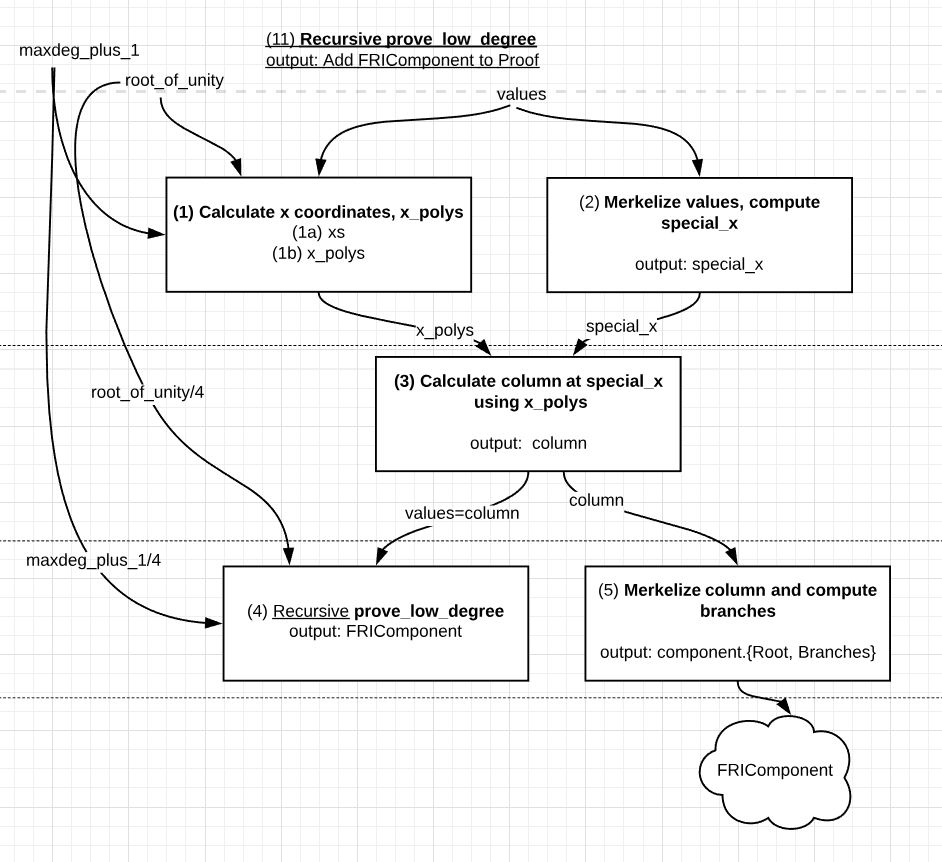
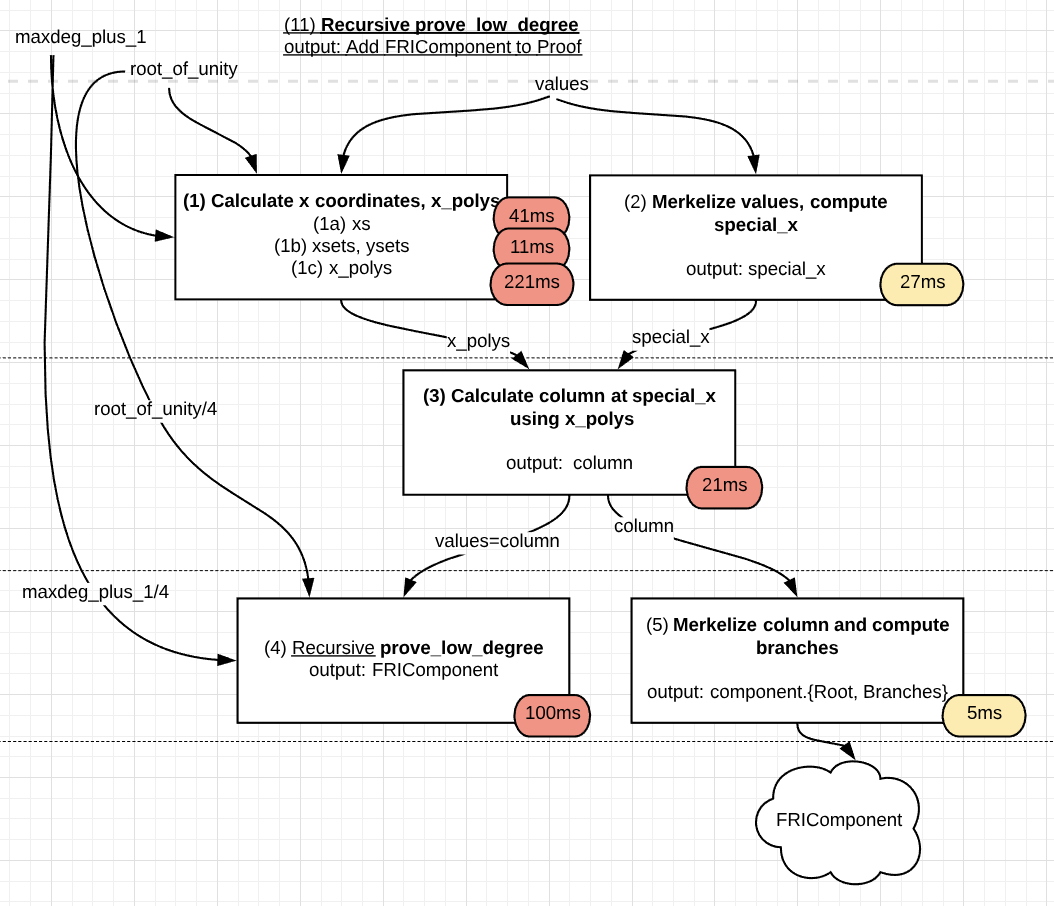
updated flow diagram with pipeline timings

Changed region(s): [[0.0, 0.0, 1.0, 0.9954], [0.6773, 0.935, 0.7081, 0.9652], [0.2771, 0.935, 0.3079, 0.9652]]

diff --git a/stark/proof.go b/stark/proof.go
@@ -323,6 +323,9 @@ func NewProof(f *PrimeField, inp *big.Int, steps *big.Int, round_constants []*bi
 	ch_c_of_p_evaluations := make(chan IndexedInt, nprecision)
 	ch_z_num_evaluations := make(chan IndexedInt, nprecision)
 	ch_z_den_evaluations := make(chan IndexedInt, nprecision)
+	d_evaluations := make([]*big.Int, nprecision)
+	ch_d_evaluations := make(chan IndexedInt, nprecision)
+	var z_num_inv []*big.Int
 	wg.Add(1)
 	go func() {
 		start := time.Now()
@@ -342,41 +345,40 @@ func NewProof(f *PrimeField, inp *big.Int, steps *big.Int, round_constants []*bi
 			z_den_evaluations[d.idx] = d.data
 		}
 		fmt.Printf("(5) Computed C(P, K) polynomial [%s => %s]\n", time.Since(start), time.Since(start0))
+
+		// (6) Compute D(x) = C(P(x), P(g1*x), K(x)) / Z(x) ;;;; Z(x) = (x^steps - 1) / (x - x_atlast_step)
+		// inputs: z_num_evaluations from (5)
+		// outputs: z_num_inv
+		start = time.Now()
+		z_num_inv = f.multi_inv(z_num_evaluations)
+		fmt.Printf("(6a) Computed z_num_inv [%s => %s]\n", time.Since(start), time.Since(start0))
+
+		// (6b) Compute d_evaluations
+		// inputs: c_of_p_evaluations, z_den_evaluations, z_num_inv; output: d_evaluations
+		start = time.Now()
+		for i := int(0); i < nprecision; i += dprecision {
+			i1 := i + dprecision
+			if i1 > nprecision {
+				i1 = nprecision
+			}
+			go compute_d_evaluations(ch_d_evaluations, c_of_p_evaluations[i:i1], z_den_evaluations[i:i1], z_num_inv[i:i1], i)
+		}
+		for i := 0; i < nprecision; i++ {
+			d := <-ch_d_evaluations
+			d_evaluations[d.idx] = d.data
+		}
+		fmt.Printf("(6b) Computed d_evaluations [%s => %s]\n", time.Since(start), time.Since(start0))
+
 		wg.Done()
 	}()
 
-	// waiting for (4)+(5)
+	// waiting for (4)+(5)/(6a)/(6b)
 	wg.Wait()
-
-	// (6) Compute D(x) = C(P(x), P(g1*x), K(x)) / Z(x) ;;;; Z(x) = (x^steps - 1) / (x - x_atlast_step)
-	// inputs: z_num_evaluations from (5)
-	// outputs: z_num_inv
-	start := time.Now()
-	z_num_inv := f.multi_inv(z_num_evaluations)
-	fmt.Printf("(6a) Computed z_num_inv [%s => %s]\n", time.Since(start), time.Since(start0))
-
-	// (6b) Compute d_evaluations
-	// inputs: c_of_p_evaluations, z_den_evaluations, z_num_inv; output: d_evaluations
-	d_evaluations := make([]*big.Int, nprecision)
-	ch_d_evaluations := make(chan IndexedInt, nprecision)
-	start = time.Now()
-	for i := int(0); i < nprecision; i += dprecision {
-		i1 := i + dprecision
-		if i1 > nprecision {
-			i1 = nprecision
-		}
-		go compute_d_evaluations(ch_d_evaluations, c_of_p_evaluations[i:i1], z_den_evaluations[i:i1], z_num_inv[i:i1], i)
-	}
-	for i := 0; i < nprecision; i++ {
-		d := <-ch_d_evaluations
-		d_evaluations[d.idx] = d.data
-	}
-	fmt.Printf("(6b) Computed d_evaluations [%s => %s]\n", time.Since(start), time.Since(start0))
 
 	// (7) Compute b_evaluations and Merkle Root
 	// input: inv_z2_evaluations from (4b); p_evaluations from (2), d_evaluations from (6b)
 	// output: merkle_inp, b_evaluations
-	start = time.Now()
+	start := time.Now()
 	nev := len(inv_z2_evaluations)
 	merkle_inp := make([][]byte, len(p_evaluations))
 	njmp = min_iterations(nev, 2)

diff --git a/stark/verify.go b/stark/verify.go
@@ -129,23 +129,21 @@ func VerifyProof(f *PrimeField, inp *big.Int, steps *big.Int, round_constants []
 	//  input: proof
 	//  output: errV
 	var errV error
-	wg.Add(1)
+	var wg2 sync.WaitGroup
+	wg2.Add(1)
 	go func() {
 		start := time.Now()
 		errV = verify_low_degree_proof(f, proof.LRoot, G2, proof.Child, int(steps.Int64()*2), ext_factor)
-		wg.Done()
+		wg2.Done()
 		fmt.Printf("(v3) verify_low_degree_proof [%s => %s]\n", time.Since(start), time.Since(start0))
 	}()
-	wg.Wait()
 
-	// check (v3) errV
-	if errV != nil {
-		return errV
-	}
+	wg.Wait()
 
 	// (v4) Verified consistency checks
 	//  input: proof, last_step_position, output from (v1), positions, k1-k4, constants_mini_polynomial from (v2),
 	//  output: chErr
+	start := time.Now()
 	nev := len(positions)
 	njmp := 5
 	buf := nev / njmp
@@ -160,6 +158,12 @@ func VerifyProof(f *PrimeField, inp *big.Int, steps *big.Int, round_constants []
 		go verify_consistency_checks(chErr, proof, G2, steps, precision, last_step_position, skips, skips2, zeropoly2, interpolant, constants_mini_polynomial, k1, k2, k3, k4, positions[i:i1], proof.Branches, i)
 	}
 
+	wg2.Wait()
+	// check (v3) errV
+	if errV != nil {
+		return errV
+	}
+
 	// check (v4) chErr
 	for i := 0; i < buf; i++ {
 		err := <-chErr
@@ -168,7 +172,7 @@ func VerifyProof(f *PrimeField, inp *big.Int, steps *big.Int, round_constants []
 		}
 	}
 
-	fmt.Printf("(v4) Verified %d consistency checks [%s]\n", spot_check_security_factor, time.Since(start0))
+	fmt.Printf("(v4) Verified %d consistency checks [%s => %s]\n", spot_check_security_factor, time.Since(start), time.Since(start0))
 	return nil
 }
 

diff --git a/stark/utils.go b/stark/utils.go
@@ -93,13 +93,13 @@ func min_iterations(total_iterations int, min_size_level int) int {
 	case -1:
 		m = 8
 	case 0:
-		m = 512
+		m = 32
 	case 1:
-		m = 512
+		m = 64
 	case 2:
-		m = 512
+		m = 128
 	case 3:
-		m = 512
+		m = 256
 	case 4:
 		m = 512
 	case 5:

diff --git a/stark/README.md b/stark/README.md
@@ -22,89 +22,92 @@ The following builds a STARK proof and verifies it:
 
 ```
 $ go test -run Stark
-(0) Setup: 182.571µs
-(3) Converted round constants into a polynomial and low-degree extended it [4.4276ms => 4.666351ms]
-(2a) Computational trace output (8192 steps) [10.389452ms => 10.700385ms]
-(2b) Converted computational steps into a polynomial [46.674131ms => 57.400872ms]
-(1) Powers of the higher-order root of unity [95.682927ms => 95.948311ms]
-(2c) Extended it into p_evaluations [270.383988ms => 327.829209ms]
-(5) Computed C(P, K) polynomial [101.310373ms => 430.617625ms]
-(4a) Computed i_evaluations [130.134393ms]
-(4b) Computed inv_z2_evaluations [116.376872ms => 574.446241ms]
-(6a) Computed z_num_inv [95.80993ms => 670.283144ms]
-(6b) Computed d_evaluations [24.213509ms => 694.804971ms]
-(7) Computed b_evaluations, MerkleTree input [46.881766ms => 741.716265ms]
-(8) Compute mtree[1] d494ec987dc1dfb66522849ed16f0a3b0bf57bc943e855ee6222ccc51436bb60 [28.393291ms => 770.132013ms]
-(9) Computed random linear combination [45.518049ms => 815.66801ms]
-(10) Merkelized l_evaluations, Setup Spot check positions [72.14833ms => 842.298166ms]
-  (16384-2) Merkelize values [26.727857ms]
-  (16384-1a) Calculate the set of x coordinates [39.512573ms]
-  (16384-1b) Setup xsets, ysets [11.181406ms]
-  (16384-1c) Computed x_polys [265.800292ms]
-  (16384-3) Computed column [11.267897ms]
-  (4096-2) Merkelize values [5.331177ms]
-  (16384-5) Computed branches [5.767438ms]
-  (4096-1a) Calculate the set of x coordinates [8.182335ms]
-  (4096-1b) Setup xsets, ysets [3.21678ms]
-  (4096-1c) Computed x_polys [61.048019ms]
-  (4096-3) Computed column [2.577056ms]
-  (1024-2) Merkelize values [1.313805ms]
-  (4096-5) Computed branches [1.670755ms]
-  (1024-1a) Calculate the set of x coordinates [2.211452ms]
-  (1024-1b) Setup xsets, ysets [741.27µs]
-  (1024-1c) Computed x_polys [19.82389ms]
-  (1024-3) Computed column [1.377656ms]
-  (256-2) Merkelize values [346.107µs]
-  (1024-5) Computed branches [570.049µs]
-  (256-1a) Calculate the set of x coordinates [685.173µs]
-  (256-1b) Setup xsets, ysets [216.53µs]
-  (256-1c) Computed x_polys [6.863071ms]
-  (256-3) Computed column [780.8µs]
-  (64-2) Merkelize values [89.412µs]
-  (256-5) Computed branches [246.714µs]
-  (64-1a) Calculate the set of x coordinates [143.897µs]
-  (64-1b) Setup xsets, ysets [58.229µs]
-  (64-1c) Computed x_polys [1.628562ms]
-  (64-3) Computed column [183.513µs]
-  (64-4) Computed prove_low_degree [10.174µs]
-  (64-5) Computed branches [618.981µs]
-  (256-4) Computed prove_low_degree [6.3084ms]
-  (1024-4) Computed prove_low_degree [14.94238ms]
-  (4096-4) Computed prove_low_degree [39.224187ms]
-  (16384-4) Computed prove_low_degree [114.427395ms]
-(11) Finished prove_low_degree [442.40318ms => 1.258112961s]
-(12) Finalized branches [896.618µs => 1.259015913s]
-STARK computed in 1.259029107s
+(0) Setup: 136.873µs
+(3) Converted round constants into a polynomial and low-degree extended it [4.338577ms => 4.513561ms]
+(2a) Computational trace output (8192 steps) [10.153501ms => 10.379916ms]
+(2b) Converted computational steps into a polynomial [44.85741ms => 55.26943ms]
+(1) Powers of the higher-order root of unity [97.431887ms => 97.654749ms]
+(2c) Extended it into p_evaluations [271.424934ms => 326.734087ms]
+(5) Computed C(P, K) polynomial [110.764331ms => 451.715435ms]
+(4a) Computed i_evaluations [150.901125ms]
+(6a) Computed z_num_inv [114.10383ms => 566.439306ms]
+(6b) Computed d_evaluations [44.098013ms => 610.566241ms]
+(4b) Computed inv_z2_evaluations [149.57005ms => 627.294183ms]
+(7) Computed b_evaluations, MerkleTree input [35.673054ms => 662.991602ms]
+(8) Compute mtree[1] d494ec987dc1dfb66522849ed16f0a3b0bf57bc943e855ee6222ccc51436bb60 [42.509277ms => 705.543331ms]
+(9) Computed random linear combination [36.515901ms => 742.083087ms]
+(10) Merkelized l_evaluations, Setup Spot check positions [63.531043ms => 769.098099ms]
+  (16384-2) Merkelize values [30.592064ms]
+  (16384-1a) Calculate the set of x coordinates [41.294518ms]
+  (16384-1b) Setup xsets, ysets [10.527359ms]
+  (16384-1c) Computed x_polys [221.345699ms]
+  (16384-3) Computed column [21.022536ms]
+  (4096-2) Merkelize values [5.122202ms]
+  (16384-5) Computed branches [5.388873ms]
+  (4096-1a) Calculate the set of x coordinates [8.040565ms]
+  (4096-1b) Setup xsets, ysets [2.612731ms]
+  (4096-1c) Computed x_polys [52.973879ms]
+  (4096-3) Computed column [3.023664ms]
+  (1024-2) Merkelize values [2.315812ms]
+  (4096-5) Computed branches [2.668178ms]
+  (1024-1a) Calculate the set of x coordinates [2.617834ms]
+  (1024-1b) Setup xsets, ysets [980.663µs]
+  (1024-1c) Computed x_polys [15.551014ms]
+  (1024-3) Computed column [2.043241ms]
+  (256-2) Merkelize values [372.046µs]
+  (1024-5) Computed branches [550.909µs]
+  (256-1a) Calculate the set of x coordinates [677.658µs]
+  (256-1b) Setup xsets, ysets [199.444µs]
+  (256-1c) Computed x_polys [7.466321ms]
+  (256-3) Computed column [956.16µs]
+  (64-2) Merkelize values [91.49µs]
+  (64-1a) Calculate the set of x coordinates [156.946µs]
+  (64-1b) Setup xsets, ysets [46.534µs]
+  (256-5) Computed branches [274.162µs]
+  (64-1c) Computed x_polys [1.753876ms]
+  (64-3) Computed column [145.251µs]
+  (64-4) Computed prove_low_degree [12.319µs]
+  (64-5) Computed branches [195.994µs]
+  (256-4) Computed prove_low_degree [2.372231ms]
+  (1024-4) Computed prove_low_degree [11.755987ms]
+  (4096-4) Computed prove_low_degree [33.146026ms]
+  (16384-4) Computed prove_low_degree [100.000932ms]
+(11) Finished prove_low_degree [394.821483ms => 1.136939027s]
+(12) Finalized branches [483.171µs => 1.137430673s]
+STARK computed in 1.13744063s
 
 STARK Proof size:  layer 0: 110322 bytes |  layer 1: 97122 bytes |  layer 2: 83922 bytes |  layer 3: 70722 bytes |  layer 4: 57480 bytes |  layer 5: 2120 bytes |
 Approx proof length: 156238 bytes (branches), 421688 bytes (FRI proof), 577926 bytes (total)
 ------
-Verifying degree <= 16 [1.04213ms]
-(v2) Computed constants_mini_polynomial [305.206µs => 1.547463ms]
-Verifying degree (2) <= 1024 [2.131157ms]
-Verifying degree (3) <= 256 [1.976066ms]
-Verifying degree (4) <= 64 [1.899876ms]
-Verifying degree (1) <= 4096 [2.397724ms]
-Verifying degree (0) <= 16384 [7.027816ms]
-FRI proof verified [8.540764ms]
-(v3) verify_low_degree_proof [8.590437ms => 8.735205ms]
-(v1) Computed MiMC output 95224774355499767951968048714566316597785297695903697235130434363122555476056 [10.786366ms => 10.852428ms]
-(v4) Verified 80 consistency checks [14.339083ms]
-STARK verified in 14.36828ms
+Verifying degree <= 16 [1.100849ms]
+(v2) Computed constants_mini_polynomial [302.785µs => 1.623201ms]
+Verifying degree (0) <= 16384 [2.263923ms]
+Verifying degree (1) <= 4096 [2.137585ms]
+(v1) Computed MiMC output 95224774355499767951968048714566316597785297695903697235130434363122555476056 [6.654943ms => 6.721418ms]
+Verifying degree (3) <= 256 [1.871259ms]
+Verifying degree (4) <= 64 [1.677099ms]
+Verifying degree (2) <= 1024 [2.005474ms]
+FRI proof verified [9.340058ms]
+(v3) verify_low_degree_proof [9.396215ms => 9.549263ms]
+(v4) Verified 80 consistency checks [8.875194ms => 15.611056ms]
+STARK verified in 15.641346ms
 PASS
-ok  	github.com/wolkdb/plasma/stark	1.296s
+ok  	github.com/wolkdb/plasma/stark	1.176s
 ```
 
-## Parallelization Performance
+## Performance
 
 Basic parallelization (go routines, WaitGroups) of the proof generation and verification have been added, with a first pass review of big.Int usage.  
 
+### STARK Proof Generation
 ![Proof Parallelization](https://github.com/wolkdb/deepblockchains/blob/master/stark/flows/proof-goroutine-flow.png "Proof Parallelization")
+
 
 ![FRI Parallelization](https://github.com/wolkdb/deepblockchains/blob/master/stark/flows/fri-goroutine-flow.png "FRI Parallelization")
 
-![Verification Parallelization](https://github.com/wolkdb/deepblockchains/blob/master/stark/flows/verify-goroutine-flow.png "Verification Parallelization")
+### STARK Verification
 
+![Verification Parallelization](https://github.com/wolkdb/deepblockchains/blob/master/stark/flows/verify-goroutine-flow.png "Verification Parallelization")
 
 
 ### 2014 MacBook Pro 2.2 GHz Intel Core i7 (8 "logical" cores)
